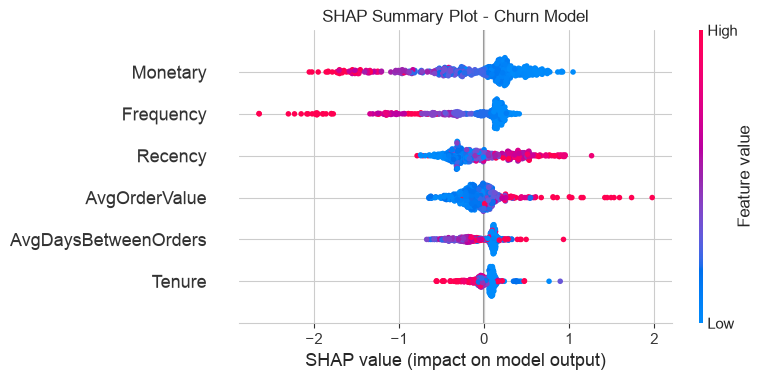
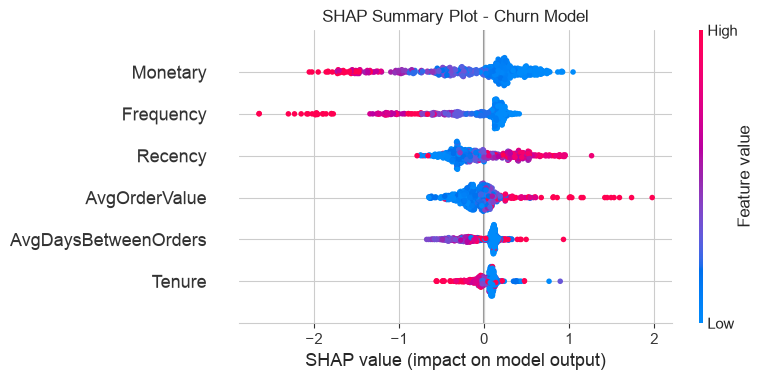
SQL analytics layer added with SQLite database and 6 business queries

diff --git a/src/sql_analytics.py b/src/sql_analytics.py
@@ -1,0 +1,105 @@
+import sqlite3
+import pandas as pd
+import os
+
+
+DB_PATH = 'data/processed/retail_analytics.db'
+
+
+def create_database(cleaned_path, rfm_path, churn_path, clv_path):
+    conn = sqlite3.connect(DB_PATH)
+
+    pd.read_csv(cleaned_path).to_sql('transactions', conn, if_exists='replace', index=False)
+    pd.read_csv(rfm_path).to_sql('rfm_segments', conn, if_exists='replace', index=False)
+    pd.read_csv(churn_path).to_sql('churn_features', conn, if_exists='replace', index=False)
+    pd.read_csv(clv_path).to_sql('clv_features', conn, if_exists='replace', index=False)
+
+    conn.close()
+    print("Database created with 4 tables: transactions, rfm_segments, churn_features, clv_features")
+
+
+def run_queries():
+    conn = sqlite3.connect(DB_PATH)
+
+    queries = {
+        "Customer Segment Summary": """
+            SELECT
+                Segment,
+                COUNT(*) as CustomerCount,
+                ROUND(AVG(Recency), 1) as AvgRecency,
+                ROUND(AVG(Frequency), 1) as AvgFrequency,
+                ROUND(AVG(Monetary), 2) as AvgMonetary
+            FROM rfm_segments
+            GROUP BY Segment
+            ORDER BY AvgMonetary DESC
+        """,
+
+        "Top 10 Customers by Revenue": """
+            SELECT
+                "Customer ID",
+                ROUND(SUM(TotalPrice), 2) as TotalRevenue,
+                COUNT(DISTINCT Invoice) as TotalOrders
+            FROM transactions
+            GROUP BY "Customer ID"
+            ORDER BY TotalRevenue DESC
+            LIMIT 10
+        """,
+
+        "Churn Rate by Segment": """
+            SELECT
+                r.Segment,
+                COUNT(*) as TotalCustomers,
+                SUM(c.Churned) as ChurnedCustomers,
+                ROUND(100.0 * SUM(c.Churned) / COUNT(*), 1) as ChurnRate
+            FROM rfm_segments r
+            JOIN churn_features c ON r."Customer ID" = c."Customer ID"
+            GROUP BY r.Segment
+            ORDER BY ChurnRate DESC
+        """,
+
+        "Monthly Revenue": """
+            SELECT
+                STRFTIME('%Y-%m', InvoiceDate) as Month,
+                ROUND(SUM(TotalPrice), 2) as Revenue,
+                COUNT(DISTINCT "Customer ID") as ActiveCustomers
+            FROM transactions
+            GROUP BY Month
+            ORDER BY Month
+        """,
+
+        "Average CLV by Segment": """
+            SELECT
+                r.Segment,
+                ROUND(AVG(cl.CLV), 2) as AvgCLV,
+                ROUND(MAX(cl.CLV), 2) as MaxCLV,
+                COUNT(*) as CustomerCount
+            FROM rfm_segments r
+            JOIN clv_features cl ON r."Customer ID" = cl."Customer ID"
+            GROUP BY r.Segment
+            ORDER BY AvgCLV DESC
+        """,
+
+        "Top 10 Products by Revenue": """
+            SELECT
+                Description,
+                ROUND(SUM(TotalPrice), 2) as TotalRevenue,
+                SUM(Quantity) as UnitsSold
+            FROM transactions
+            WHERE Description IS NOT NULL
+            GROUP BY Description
+            ORDER BY TotalRevenue DESC
+            LIMIT 10
+        """
+    }
+
+    results = {}
+    for name, query in queries.items():
+        print(f"\n{'='*50}")
+        print(f"{name}")
+        print('='*50)
+        df = pd.read_sql_query(query, conn)
+        print(df.to_string(index=False))
+        results[name] = df
+
+    conn.close()
+    return results

diff --git a/main.py b/main.py
@@ -11,6 +11,7 @@ from src.segmentation import run_elbow_method, assign_clusters
 from src.churn_model import train_churn_model, evaluate_churn_model, save_churn_model
 from src.clv_model import train_clv_model, evaluate_clv_model, save_clv_model
 from src.shap_explainer import explain_churn_model, explain_clv_model
+from src.sql_analytics import create_database, run_queries
 
 RAW_DATA_PATH = 'data/raw/online_retail_II.xlsx'
 CLEANED_DATA_PATH = 'data/processed/cleaned_data.csv'
@@ -61,6 +62,10 @@ def main():
     explain_churn_model(churn_model, X_test_churn, FIGURES_PATH)
     explain_clv_model(clv_model, X_test_clv, FIGURES_PATH)
     print("SHAP explanations saved.")
+
+    create_database(CLEANED_DATA_PATH, RFM_PATH, CHURN_FEATURES_PATH, CLV_FEATURES_PATH)
+    run_queries()
+    print("\nSQL analytics complete.")
 
 
 if __name__ == "__main__":